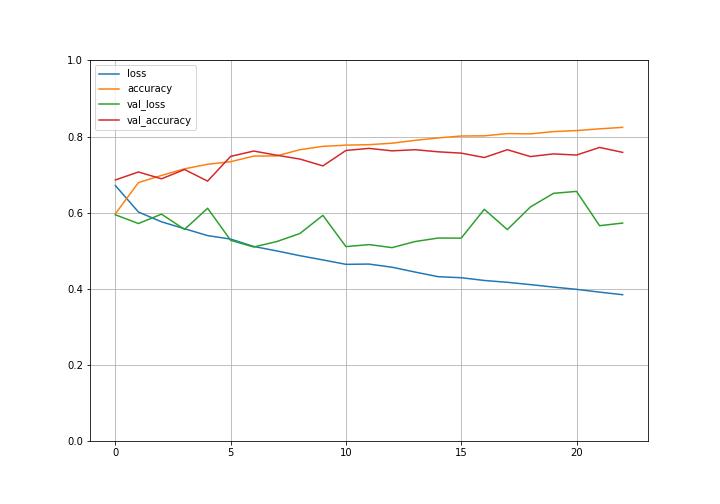
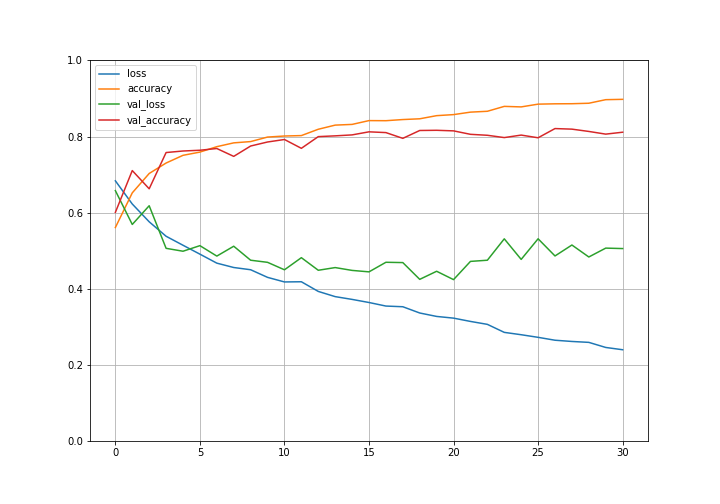
Add: treinado com camadas extras de convolução e max pooling

diff --git a/2 - Construindo redes neurais convolucionais/classificacao-cachorro-gato.py b/2 - Construindo redes neurais convolucionais/classificacao-cachorro-gato.py
@@ -31,6 +31,9 @@ input_shape = (64, 64, 3)
 classifier.add(
     Conv2D(filtros, kernel, input_shape=input_shape, activation='relu'))
 classifier.add(MaxPooling2D(pool_size=(2, 2)))
+classifier.add(
+    Conv2D(filtros, kernel, activation='relu'))
+classifier.add(MaxPooling2D(pool_size=(2, 2)))
 classifier.add(Flatten())
 
 # Como experimento, definimos 128 neurônios
@@ -55,11 +58,13 @@ test_set = test_dataimg.flow_from_directory(
     'data/test_set',  target_size=(64, 64), batch_size=32, class_mode='binary')
 
 # Treinando a rede neural
-early_stopping = tf.keras.callbacks.EarlyStopping(monitor = 'val_loss', patience=10, mode='min')
-history = classifier.fit(train_set, steps_per_epoch = 8000//32, epochs = 500, validation_data = test_set, validation_steps = 2000//32, callbacks=[early_stopping])
+early_stopping = tf.keras.callbacks.EarlyStopping(
+    monitor='val_loss', patience=10, mode='min')
+history = classifier.fit(train_set, steps_per_epoch=8000//32, epochs=500,
+                         validation_data=test_set, validation_steps=2000//32, callbacks=[early_stopping])
 
-#Exporting learning curves
-pd.DataFrame(history.history).plot(figsize=(10,7))
+# Exporting learning curves
+pd.DataFrame(history.history).plot(figsize=(10, 7))
 plt.grid(True)
-plt.gca().set_ylim(0,1)
+plt.gca().set_ylim(0, 1)
 plt.savefig("imgs/learning-curves-128-neurons.png")
